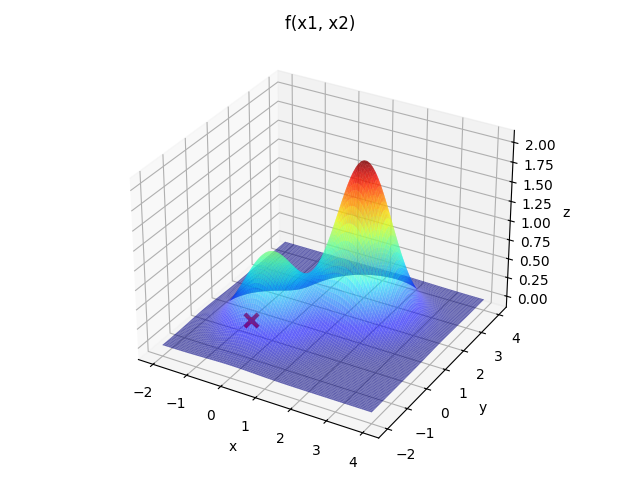
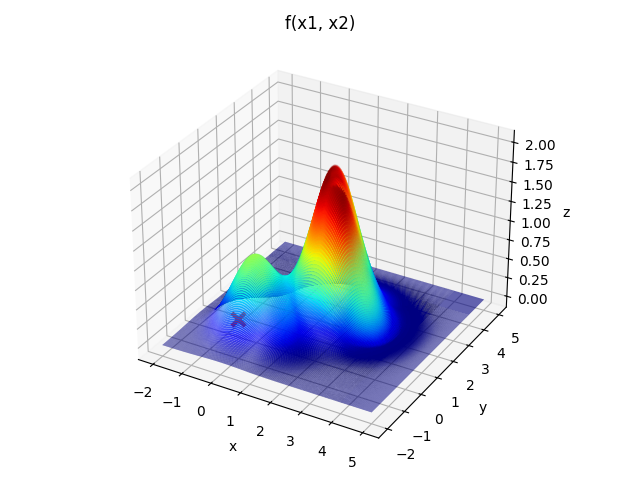
Update figures

diff --git a/av1.py b/av1.py
@@ -4,33 +4,33 @@ import matplotlib.pyplot as plt
 
 def f(x1, x2):
     # return (x1 ** 2 + x2 ** 2)
-    # return (np.exp(-(x1 ** 2 + x2 ** 2)) + 2 * np.exp(-((x1 - 1.7) ** 2 + (x2 - 1.7) ** 2)))
+    return (np.exp(-(x1 ** 2 + x2 ** 2)) + 2 * np.exp(-((x1 - 1.7) ** 2 + (x2 - 1.7) ** 2)))
     # return (-20 * np.exp(-0.2 * np.sqrt(0.5 * (x1 ** 2 + x2 ** 2)))) - np.exp(0.5 * (np.cos(2 * np.pi * x1) + np.cos(2 * np.pi * x2))) + 20 + np.exp(1)
     # return ((x1 ** 2 - 10 * np.cos(2 * np.pi * x1) + 10) + (x2 ** 2 - 10 * np.cos(2 * np.pi * x2) + 10))
     # return (((x1 * np.cos(x1)) / 20) + 2 * np.exp(-(x1 ** 2) - ((x2 - 1) ** 2)) + 0.01 * x1 * x2)
     # return ((x1 * np.sin(4 * np.pi * x1)) - (x2 * np.sin((4 * np.pi * x2) + np.pi)) + 1)
     # return ((-np.sin(x1) * np.sin((x1 ** 2)/np.pi) ** (2 * 10)) - (np.sin(x2) * np.sin((x2 ** 2)/np.pi) ** (2 * 10)))
-    return ((-(x2 + 47)) * np.sin(np.sqrt(np.abs((x1 / 2) + (x2 + 47))))) - (x1 * np.sin(np.sqrt(np.abs(x1 - (x2 + 47)))))
+    # return ((-(x2 + 47)) * np.sin(np.sqrt(np.abs((x1 / 2) + (x2 + 47))))) - (x1 * np.sin(np.sqrt(np.abs(x1 - (x2 + 47)))))
 
 # x1 = np.linspace(-100, 100, 1000)
-# x1 = np.linspace(-2, 4, 1000)
+x1 = np.linspace(start=[-2, -2], stop=[4, 5], num=1000)
 # x1 = np.linspace(-8, 8, 1000)
 # x1 = np.linspace(-5.12, 5.12, 1000)
 # x1 = np.linspace(-10, 10, 1000)
 # x1 = np.linspace(-1, 3, 1000)
 # x1 = np.linspace(0, np.pi, 1000)
-x1 = np.linspace(-200, 20, 1000)
+# x1 = np.linspace(-200, 20, 1000)
 X1,X2 = np.meshgrid(x1, x1)
 Y = f(X1, X2)
 
 # x1_cand, x2_cand = 50, 50
-# x1_cand, x2_cand = 0, -1
+x1_cand, x2_cand = 0, -1
 # x1_cand, x2_cand = 0, -2
 # x1_cand, x2_cand = 1, -5
 # x1_cand, x2_cand = -2, 0
 # x1_cand, x2_cand = -1, 0
 # x1_cand, x2_cand = 3, 2
-x1_cand, x2_cand = 3, 2
+# x1_cand, x2_cand = 3, 2
 f_cand = f(x1_cand, x2_cand)
 
 fig = plt.figure()
@@ -45,12 +45,12 @@ ax.set_title('f(x1, x2)')
 plt.tight_layout()
 
 # plt.savefig('av1-problem1.png')
-# plt.savefig('av1-problem2.png')
+plt.savefig('av1-problem2.png')
 # plt.savefig('av1-problem3.png')
 # plt.savefig('av1-problem4.png')
 # plt.savefig('av1-problem5.png')
 # plt.savefig('av1-problem6.png')
 # plt.savefig('av1-problem7.png')
-plt.savefig('av1-problem8.png')
+# plt.savefig('av1-problem8.png')
 
 #plt.show()
